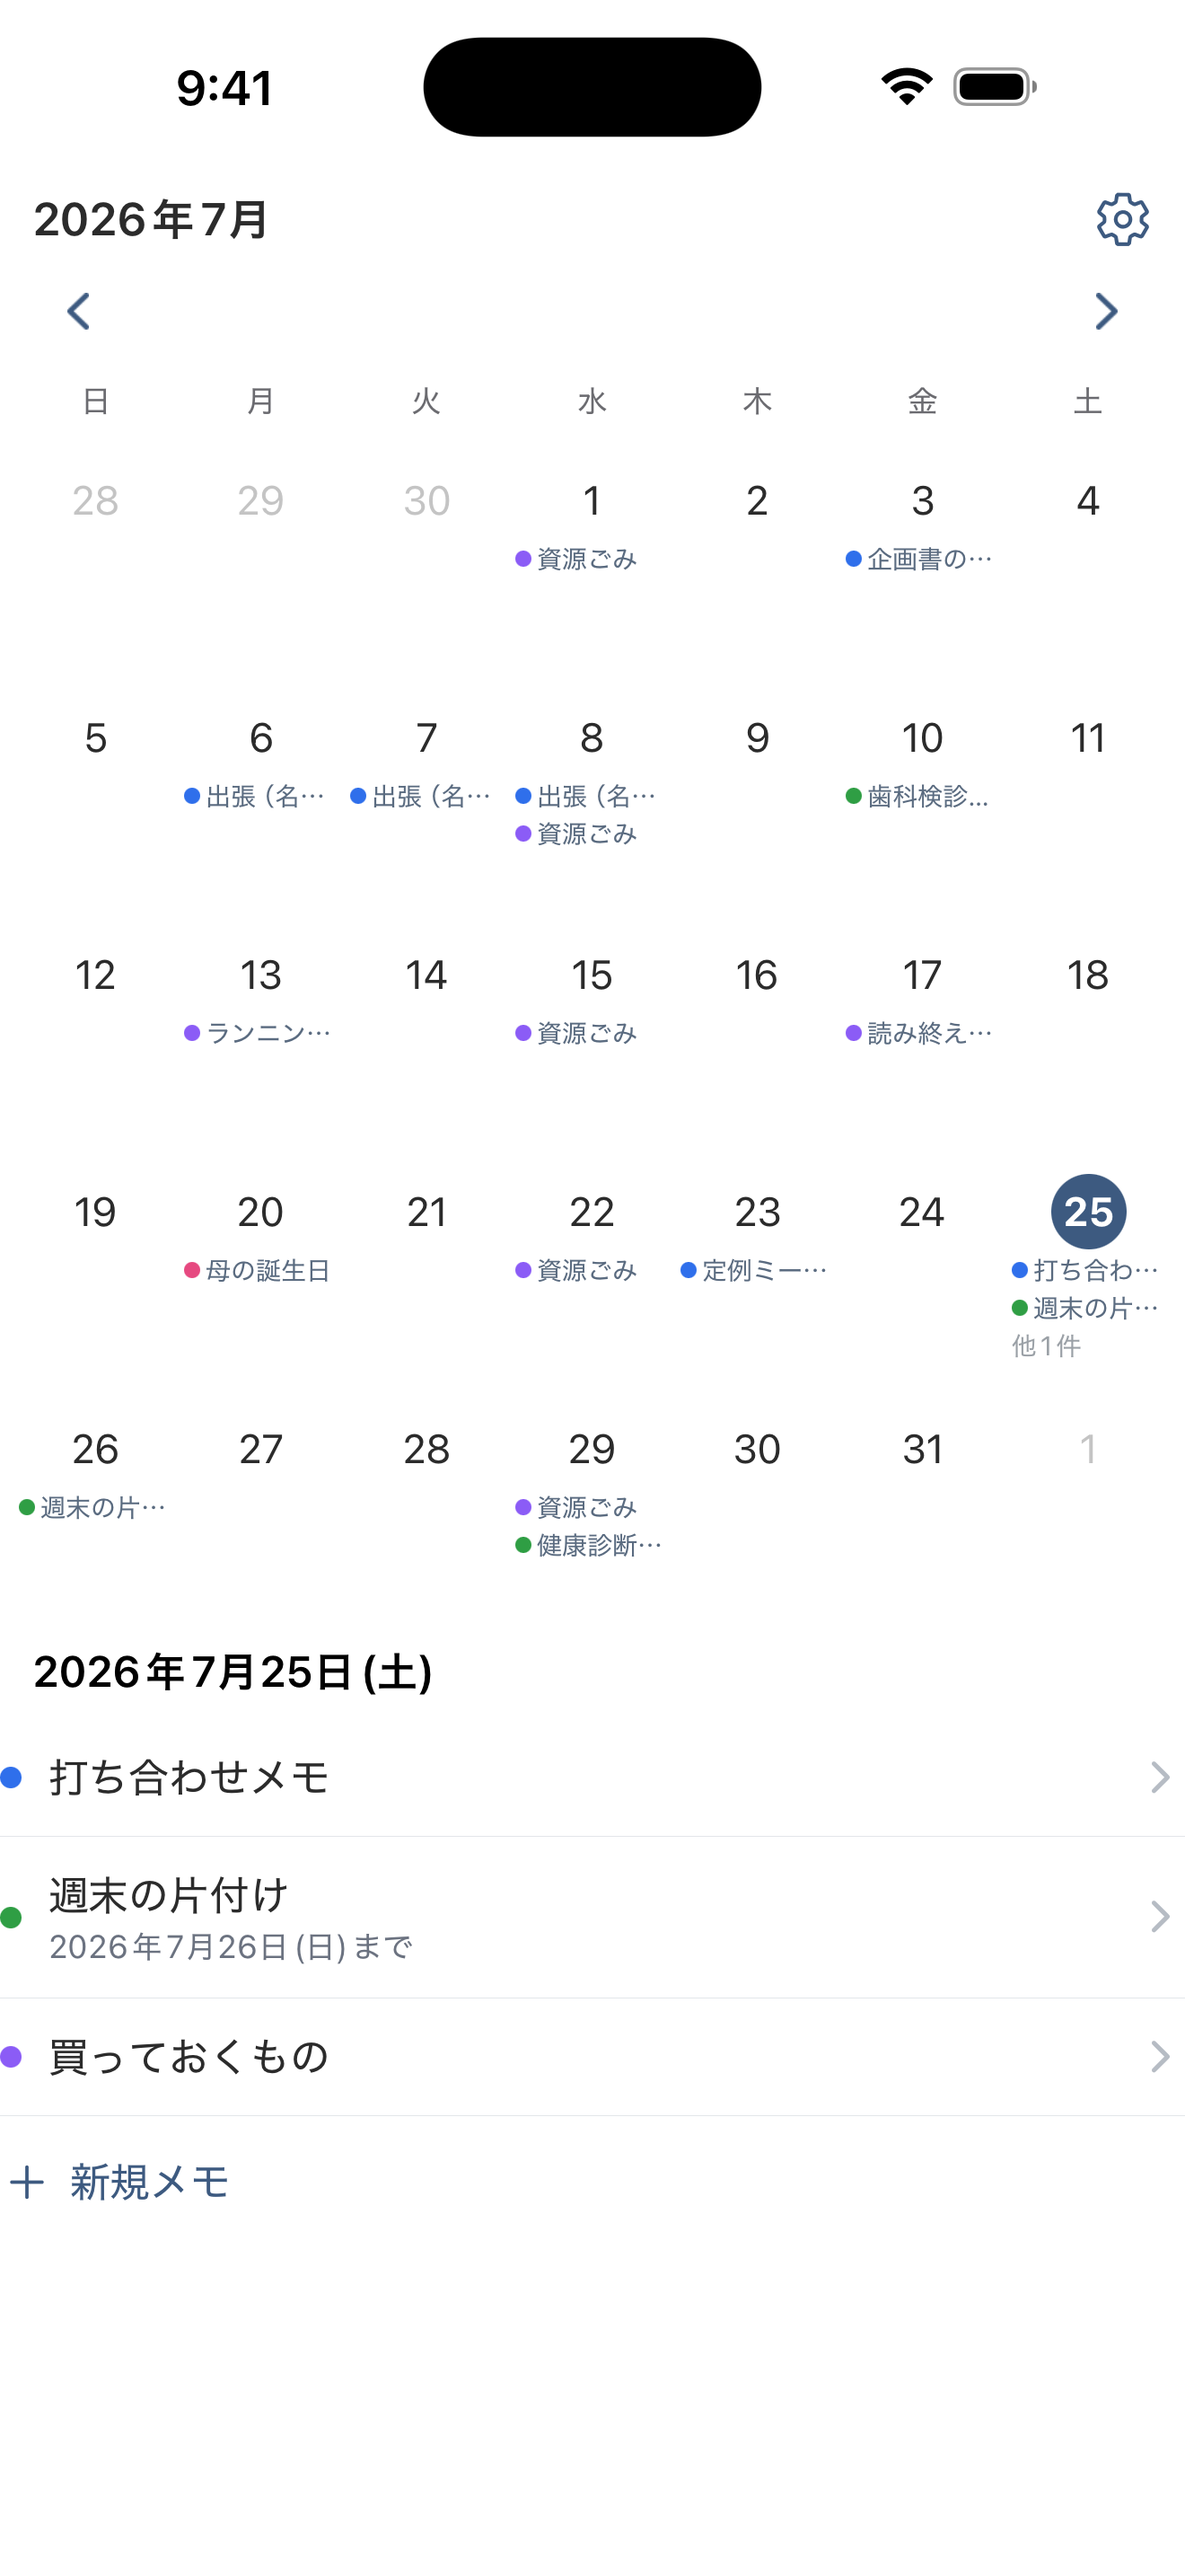
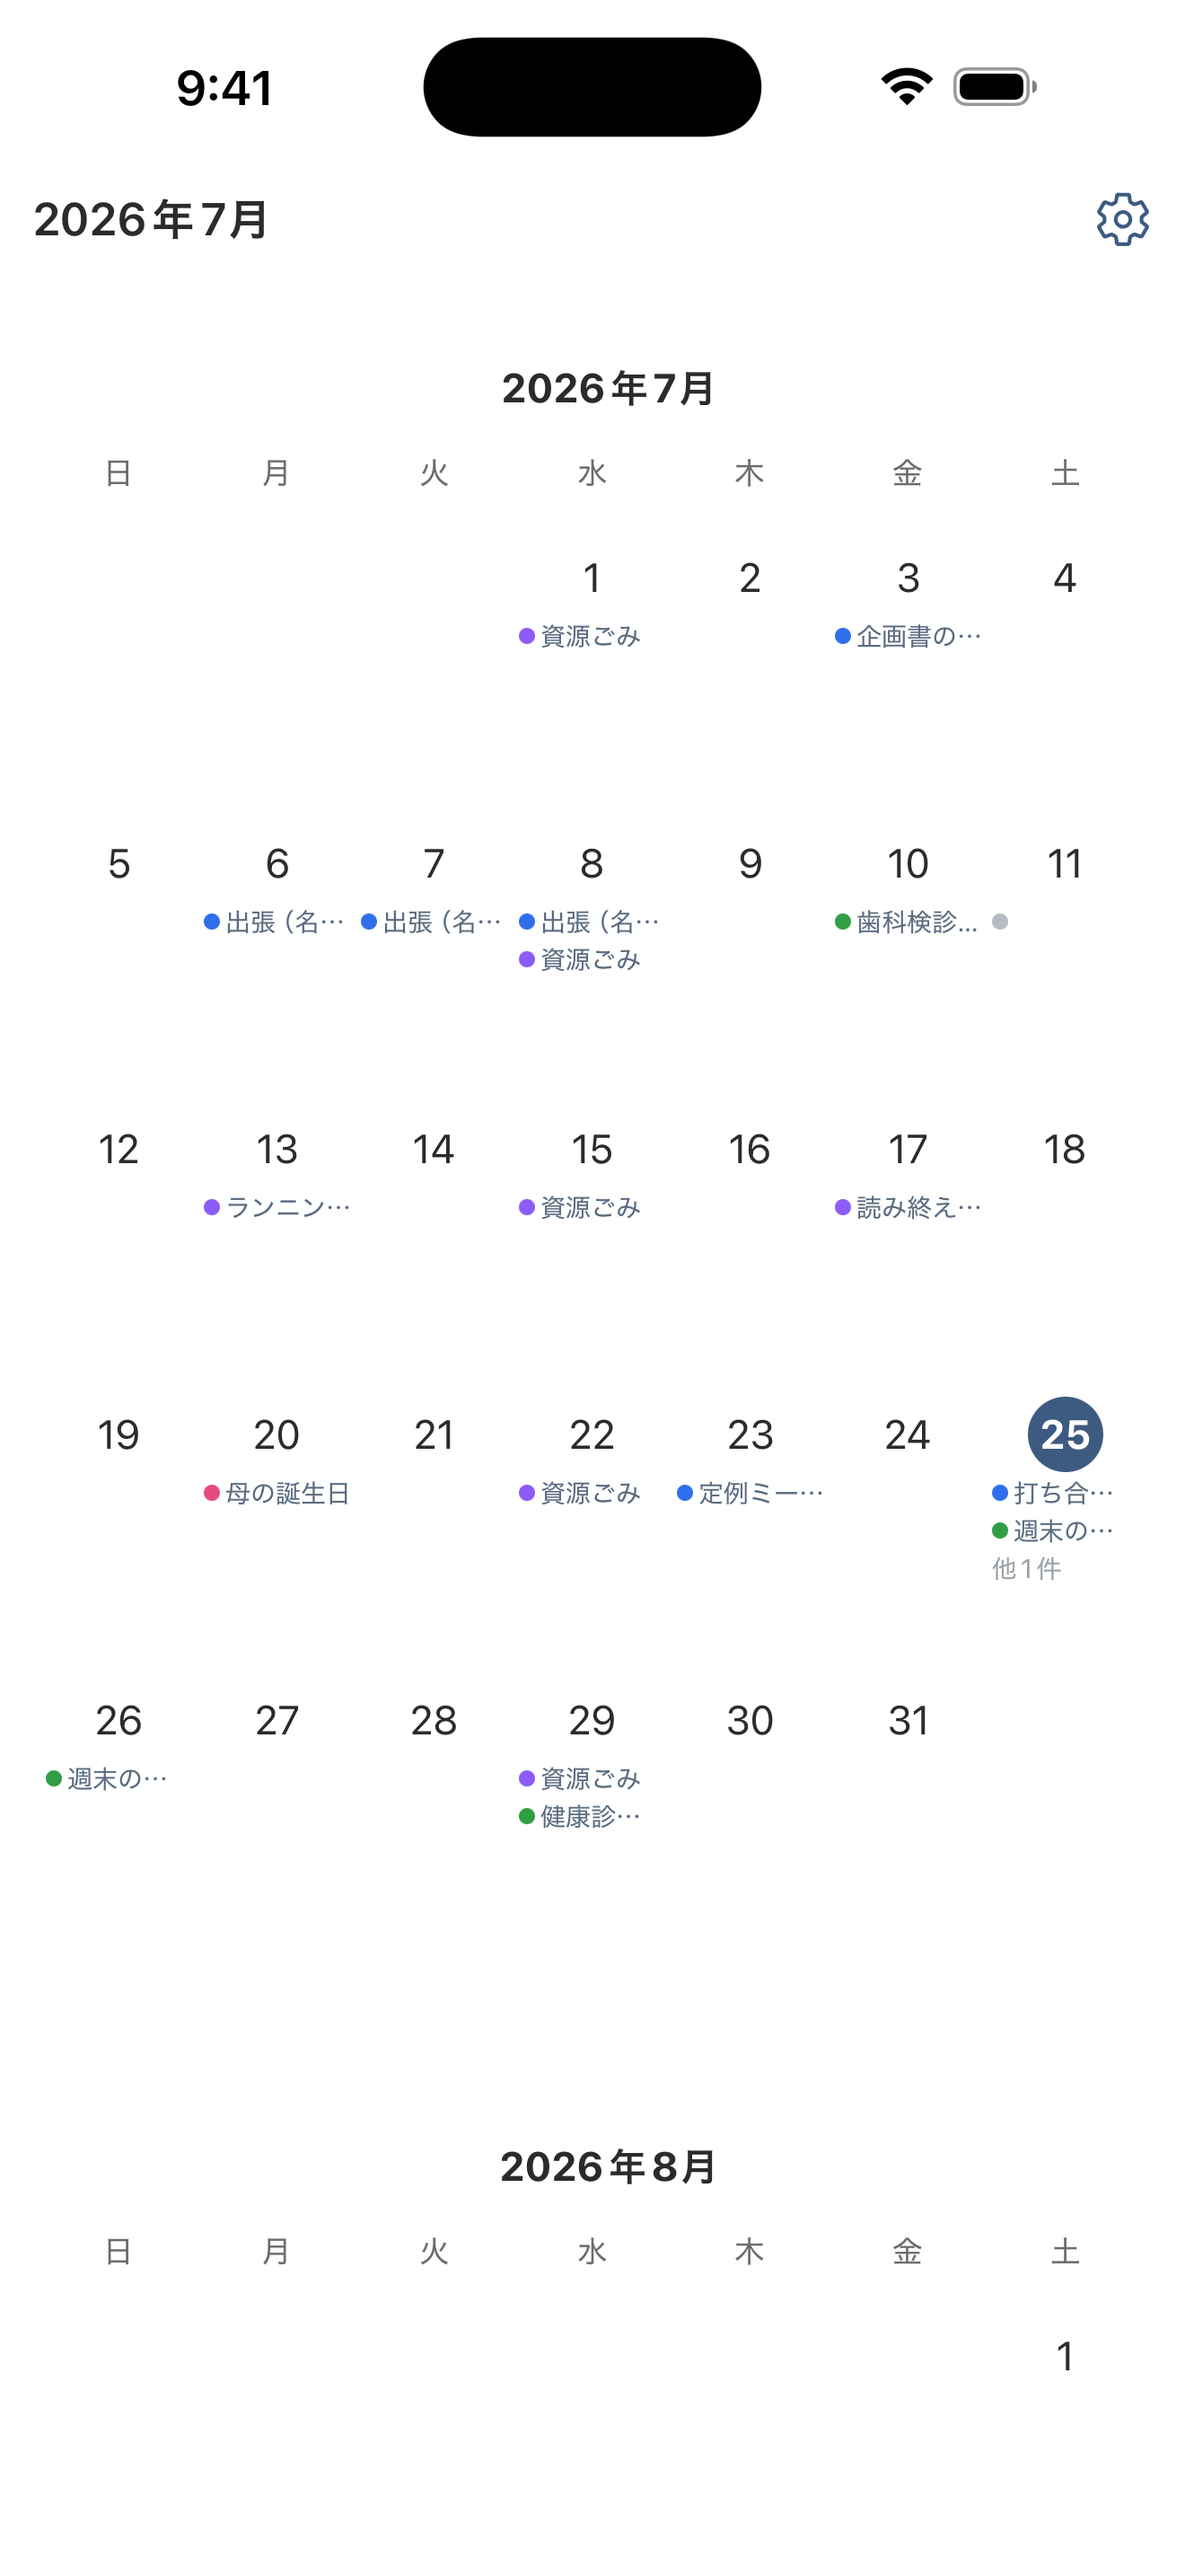
スクリーンショットを新しい画面に差し替え、スクロールで動くようにする
アプリのカレンダーが縦スクロールになり、その日のメモが下から出る形に
変わったので、画像を撮り直したものに差し替える。ファイル名も変わったため
参照も直す。

見せ方も変える。横に4枚並べていたのをやめ、端末を1台だけ画面に留めたまま、
読んでいる説明に合わせて中身を入れ替える。1枚ずつ見てもらえる。

- IntersectionObserver で「画面の中央に一番近い説明」を見て切り替える
- 各セクションはスクロールで現れる
- 狭い画面では説明が同時に見えるので、点をタップして選べるようにした
- prefers-reduced-motion が指定されていれば、いずれも動かさない

diff --git a/index.html b/index.html
@@ -138,52 +138,149 @@
         font-size: 0.9rem;
       }
 
-      /* ---- screenshot strip ---- */
-      .shots {
-        display: flex;
-        align-items: flex-start;
-        gap: 1.25rem;
-        overflow-x: auto;
-        padding: 0.5rem 1.25rem 2.5rem;
-        scroll-snap-type: x mandatory;
-        justify-content: flex-start;
+      /* ---- showcase(スクロールで中身が切り替わる1台) ---- */
+      .showcase {
+        padding: 2rem 0 4rem;
       }
-      .shots figure {
-        margin: 0;
+      .showcase-inner {
+        max-width: 68rem;
+        margin: 0 auto;
+        padding: 0 1.25rem;
+        display: grid;
+        gap: 2rem;
       }
-      @media (min-width: 60rem) {
-        .shots {
-          justify-content: center;
-          overflow-x: visible;
+      @media (min-width: 56rem) {
+        .showcase-inner {
+          grid-template-columns: 0.9fr 1.1fr;
+          gap: 4rem;
+          align-items: start;
+        }
+        .phone-col {
+          position: sticky;
+          /* 端末を画面に留めたまま、右の説明だけを流す。 */
+          top: 5.5rem;
         }
       }
-      .shot {
-        flex: 0 0 auto;
-        width: 210px;
-        scroll-snap-align: center;
-      }
-      /*
-        スクリーンショットは App Store 用に 1320×2868 のまま置いてある。
-        LP では上端のステータスバー(時刻がバラバラ・ダイナミックアイランドの黒)を
-        切る。容れ物を元画像より少し低い比率にして、下端を基準に cover させると
-        上だけが削れる。
-      */
-      .shot img {
-        width: 100%;
-        aspect-ratio: 1320 / 2706;
-        object-fit: cover;
-        object-position: bottom;
-        background: var(--panel);
-        border-radius: 26px;
-        border: 1px solid var(--rule);
+      .phone {
+        width: 250px;
+        margin: 0 auto;
+        padding: 10px;
+        border-radius: 42px;
+        background: linear-gradient(160deg, #d7dde6, #f4f6f9);
         box-shadow: var(--shadow);
       }
-      .shot p {
-        margin: 0.9rem 0 0;
-        text-align: center;
-        font-size: 0.85rem;
+      @media (prefers-color-scheme: dark) {
+        .phone {
+          background: linear-gradient(160deg, #2a2f38, #1a1e24);
+        }
+      }
+      .phone-screen {
+        position: relative;
+        border-radius: 32px;
+        overflow: hidden;
+        background: var(--bg);
+        /* スクリーンショットは 1320×2868。上端のステータスバーは切って出す。 */
+        aspect-ratio: 1320 / 2706;
+      }
+      .shot-img {
+        position: absolute;
+        inset: 0;
+        width: 100%;
+        height: 100%;
+        object-fit: cover;
+        object-position: bottom;
+        opacity: 0;
+        transform: scale(1.015);
+        transition:
+          opacity 0.5s ease,
+          transform 0.6s ease;
+      }
+      .shot-img.is-active {
+        opacity: 1;
+        transform: none;
+      }
+      .dots {
+        display: flex;
+        justify-content: center;
+        gap: 0.4rem;
+        margin-top: 1.1rem;
+      }
+      .dot {
+        width: 7px;
+        height: 7px;
+        border-radius: 50%;
+        background: var(--rule);
+        transition:
+          background 0.3s ease,
+          transform 0.3s ease;
+      }
+      .dot.is-active {
+        background: var(--accent);
+        transform: scale(1.35);
+      }
+      .captions {
+        list-style: none;
+        margin: 0;
+        padding: 0;
+      }
+      .captions li {
+        padding: 1.6rem 0;
+        opacity: 0.35;
+        transition:
+          opacity 0.4s ease,
+          transform 0.4s ease;
+      }
+      @media (min-width: 56rem) {
+        .captions li {
+          min-height: 42vh;
+          display: flex;
+          flex-direction: column;
+          justify-content: center;
+          padding: 0;
+        }
+      }
+      .captions li.is-active {
+        opacity: 1;
+      }
+      .captions h3 {
+        margin: 0 0 0.5rem;
+        font-size: clamp(1.15rem, 3vw, 1.5rem);
+        letter-spacing: -0.01em;
+      }
+      .captions p {
+        margin: 0;
         color: var(--muted);
-        line-height: 1.6;
+        max-width: 30rem;
+      }
+
+      /* ---- スクロールで現れる ---- */
+      .reveal {
+        opacity: 0;
+        transform: translateY(18px);
+        transition:
+          opacity 0.6s ease,
+          transform 0.6s cubic-bezier(0.22, 1, 0.36, 1);
+      }
+      .reveal.is-in {
+        opacity: 1;
+        transform: none;
+      }
+
+      /* 動きを減らす設定の人には動かさない。 */
+      @media (prefers-reduced-motion: reduce) {
+        html {
+          scroll-behavior: auto;
+        }
+        .reveal,
+        .shot-img,
+        .dot,
+        .captions li {
+          transition: none;
+        }
+        .reveal {
+          opacity: 1;
+          transform: none;
+        }
       }
 
       /* ---- sections ---- */
@@ -366,36 +463,51 @@
       </div>
     </header>
 
-    <div class="shots">
-      <figure class="shot">
-        <img src="screenshots/01-calendar.png" alt="月表示のカレンダーと、その日のメモ一覧" />
-        <p>その月に何があるかが<br />カレンダーの上でわかる</p>
-      </figure>
-      <figure class="shot">
-        <img
-          src="screenshots/05-richtext.png"
-          alt="見出し・チェックリスト・引用を使ったメモの編集画面"
-          loading="lazy"
-        />
-        <p>見出し・チェックリスト・<br />引用も使える</p>
-      </figure>
-      <figure class="shot">
-        <img
-          src="screenshots/03-schedule.png"
-          alt="期間と繰り返しを決める詳細設定"
-          loading="lazy"
-        />
-        <p>期間や繰り返しは<br />詳細設定の中だけに</p>
-      </figure>
-      <figure class="shot">
-        <img
-          src="screenshots/04-settings.png"
-          alt="カテゴリ管理とデータ管理の設定画面"
-          loading="lazy"
-        />
-        <p>カテゴリの色分けと<br />バックアップ</p>
-      </figure>
-    </div>
+    <!--
+      1台の端末を画面に留めたまま、スクロールに合わせて中身を切り替える。
+      横に4枚並べるより、1つずつ見てもらえる。
+    -->
+    <section class="showcase" id="showcase">
+      <div class="showcase-inner">
+        <div class="phone-col">
+          <div class="phone">
+            <div class="phone-screen">
+              <img data-shot="0" class="shot-img is-active" src="screenshots/01-calendar.png" alt="縦にスクロールするカレンダー" />
+              <img data-shot="1" class="shot-img" src="screenshots/02-day-sheet.png" alt="日付をタップすると下から出るメモ一覧" loading="lazy" />
+              <img data-shot="2" class="shot-img" src="screenshots/03-richtext.png" alt="見出し・チェックリスト・引用を使った本文編集" loading="lazy" />
+              <img data-shot="3" class="shot-img" src="screenshots/04-schedule.png" alt="期間と繰り返しを決める詳細設定" loading="lazy" />
+              <img data-shot="4" class="shot-img" src="screenshots/05-settings.png" alt="カテゴリ管理とデータ管理" loading="lazy" />
+            </div>
+          </div>
+          <div class="dots" aria-hidden="true">
+            <span class="dot is-active"></span><span class="dot"></span><span class="dot"></span><span class="dot"></span><span class="dot"></span>
+          </div>
+        </div>
+
+        <ol class="captions">
+          <li data-caption="0" class="is-active">
+            <h3>ひと月ぶんを、ひと目で</h3>
+            <p>その日に何を書いたかがカレンダーの上に出ます。縦にスクロールすれば前後の月へそのまま続きます。</p>
+          </li>
+          <li data-caption="1">
+            <h3>日付をタップするだけ</h3>
+            <p>その日のメモが下から出ます。カレンダーは見えたままなので、別の日を選び直すのもすぐです。</p>
+          </li>
+          <li data-caption="2">
+            <h3>書式が使える</h3>
+            <p>見出し・チェックリスト・引用・リンク。買い物リストにも、打ち合わせのメモにも、日記にも。</p>
+          </li>
+          <li data-caption="3">
+            <h3>予定にもなる</h3>
+            <p>何日かにまたがるメモも、毎日・毎週・毎月・毎年の繰り返しも。日付の設定は奥にしまってあります。</p>
+          </li>
+          <li data-caption="4">
+            <h3>色で分けて、持ち出せる</h3>
+            <p>カテゴリの色でひと目で見分けられます。バックアップは書式もカテゴリもそのまま戻せます。</p>
+          </li>
+        </ol>
+      </div>
+    </section>
 
     <section class="wrap steps-section">
       <h2>使い方は3つだけ</h2>
@@ -447,7 +559,7 @@
         </div>
         <figure class="split-shot">
           <img
-            src="screenshots/05-richtext.png"
+            src="screenshots/03-richtext.png"
             alt="見出し・チェックリスト・引用を使ったメモと、書式のツールバー"
             loading="lazy"
           />
@@ -545,5 +657,65 @@
       </div>
       <div>MemoCalendar — 思いついたら、その日にすぐ。</div>
     </footer>
+    <script>
+      // 動きを減らす設定なら、何も動かさない。
+      const still = window.matchMedia('(prefers-reduced-motion: reduce)').matches;
+
+      // --- スクロールで現れる ---
+      const revealTargets = document.querySelectorAll(
+        'section h2, .section-lead, .card, .steps li, .chips, .split-shot, .privacy ul, footer',
+      );
+      revealTargets.forEach((el) => el.classList.add('reveal'));
+      if (still || !('IntersectionObserver' in window)) {
+        revealTargets.forEach((el) => el.classList.add('is-in'));
+      } else {
+        const revealer = new IntersectionObserver(
+          (entries) => {
+            entries.forEach((entry) => {
+              if (!entry.isIntersecting) return;
+              entry.target.classList.add('is-in');
+              revealer.unobserve(entry.target);
+            });
+          },
+          { rootMargin: '0px 0px -12% 0px' },
+        );
+        revealTargets.forEach((el) => revealer.observe(el));
+      }
+
+      // --- 端末の中身を、読んでいる説明に合わせて切り替える ---
+      const shots = [...document.querySelectorAll('.shot-img')];
+      const captions = [...document.querySelectorAll('.captions li')];
+      const dots = [...document.querySelectorAll('.dot')];
+
+      function showShot(index) {
+        shots.forEach((el, i) => el.classList.toggle('is-active', i === index));
+        captions.forEach((el, i) => el.classList.toggle('is-active', i === index));
+        dots.forEach((el, i) => el.classList.toggle('is-active', i === index));
+      }
+
+      if (captions.length > 0 && 'IntersectionObserver' in window) {
+        // 画面の中央に一番近い説明を「読んでいる」とみなす。
+        const spy = new IntersectionObserver(
+          (entries) => {
+            let best = null;
+            entries.forEach((entry) => {
+              if (!entry.isIntersecting) return;
+              if (!best || entry.intersectionRatio > best.intersectionRatio) best = entry;
+            });
+            if (best) showShot(Number(best.target.dataset.caption));
+          },
+          { rootMargin: '-45% 0px -45% 0px', threshold: [0, 0.5, 1] },
+        );
+        captions.forEach((el) => spy.observe(el));
+      }
+
+      // 横に並ぶ狭い画面では説明が同時に見えるので、点をタップして選べるようにする。
+      dots.forEach((dot, i) => {
+        dot.addEventListener('click', () => {
+          showShot(i);
+          captions[i]?.scrollIntoView({ behavior: still ? 'auto' : 'smooth', block: 'center' });
+        });
+      });
+    </script>
   </body>
 </html>
